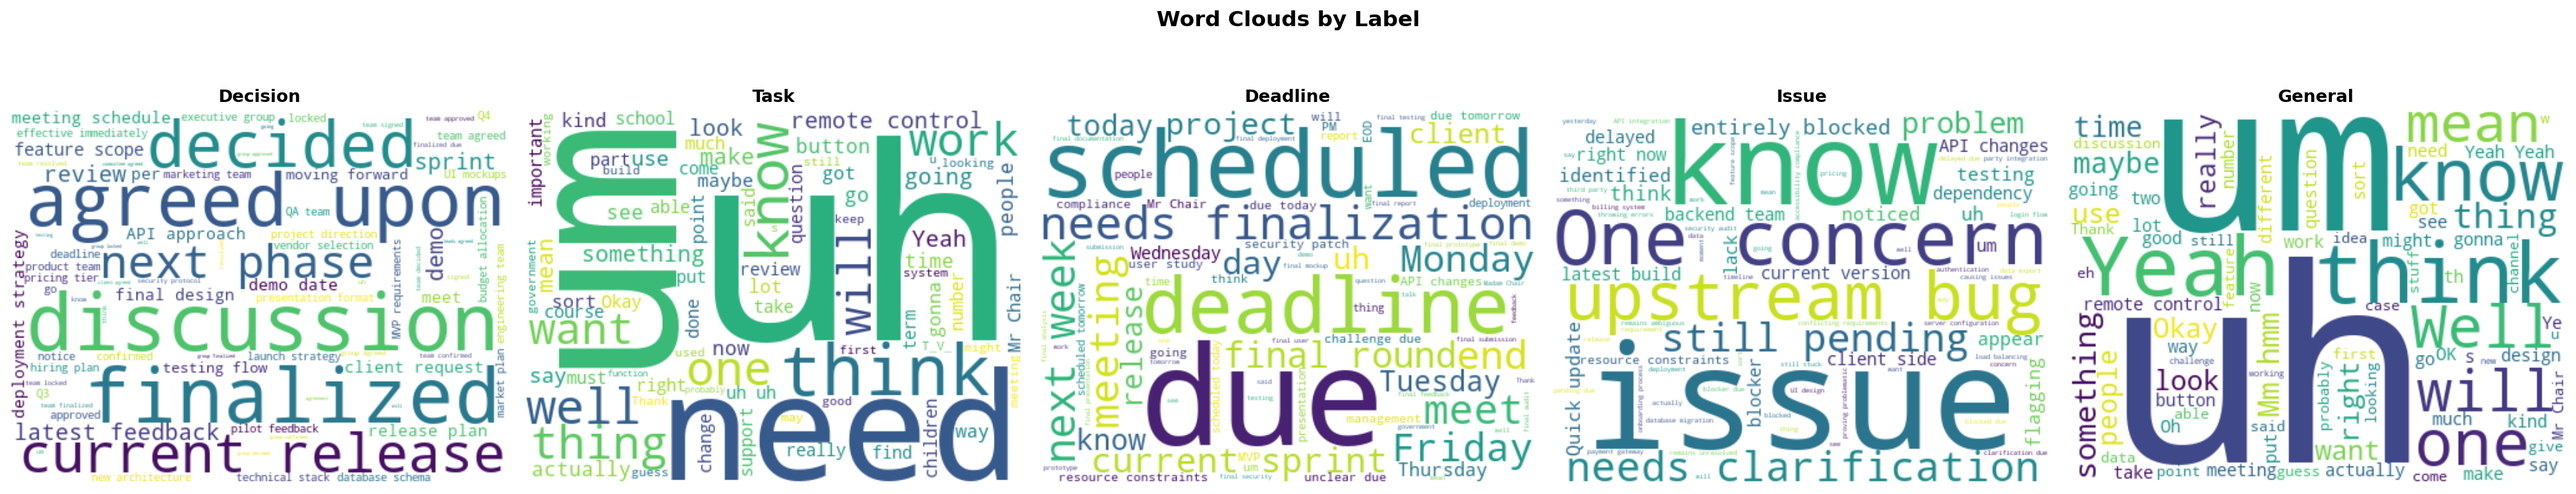
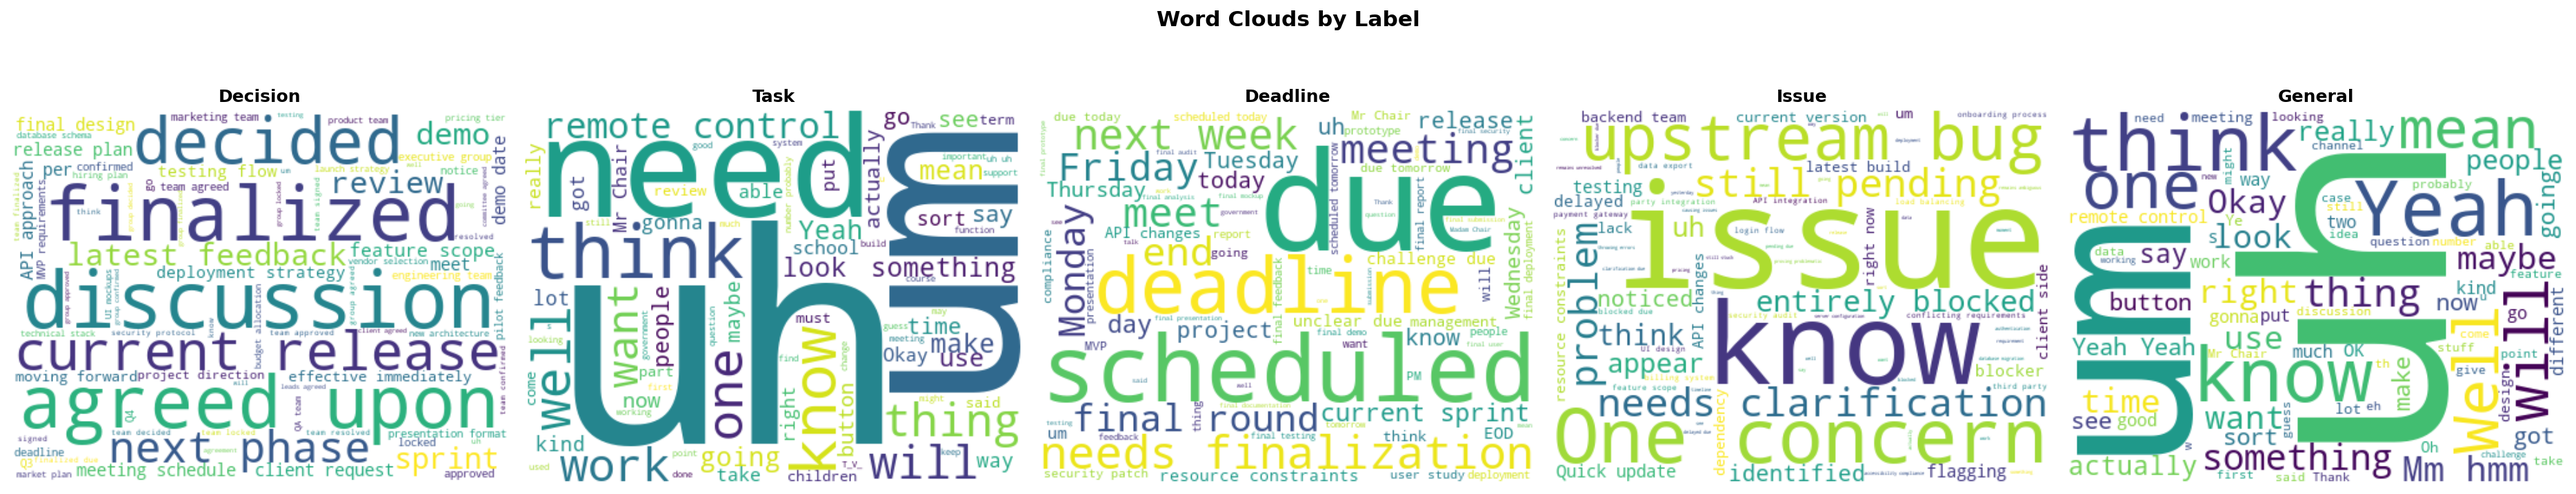
Updated README.md and added images for documentation.

diff --git a/README.md b/README.md
@@ -1,5 +1,9 @@
 # MeetingMind — System Overview
 
+<p align="center">
+  <img src="image.png" alt="MeetingMind Dashboard" width="100%">
+</p>
+
 > **AI-powered meeting transcript analyser** that combines a custom-trained ML classification pipeline with LLM-based intelligence to extract actionable insights from meeting transcripts.
 
 ---
@@ -24,7 +28,7 @@
 
 ## 1. Application Summary
 
-**MeetingMind** is a full-stack AI meeting analysis application. Users upload meeting transcripts (PDF, DOCX, TXT, or raw text), and the system:
+**MeetingMind** is a AI meeting analysis application. Users upload meeting transcripts (PDF, DOCX, TXT, or raw text), and the system:
 
 1. **Classifies** each sentence using a trained SVM model into five categories: *Decision*, *Task*, *Deadline*, *Issue*, or *General Discussion*.
 2. **Refines** the ML output using an LLM (Gemini or Groq) to produce clean, professional insights — including participant detection, responsibility mapping, meeting title generation, and an intelligence score.
@@ -36,7 +40,7 @@
 
 ```
 ┌─────────────────────────────────────────────────────────────────┐
-│                     FRONTEND (Browser)                          │
+│                     FRONTEND (Streamlit, port 8501)             |             
 │  meetingmind.html — Single-page app served via Streamlit        │
 │  ┌───────────┬────────────┬─────────────┬──────────────────┐    │
 │  │   Home    │  History   │ AI Summary  │    Settings      │    │
@@ -50,25 +54,17 @@
 ┌─────────────────────────────────────────────────────────────────┐
 │                   BACKEND (FastAPI, port 8502)                  │
 │                                                                 │
-<<<<<<< HEAD
+|<<<<<<< HEAD                                                     |
 │  POST /api/analyse       ← Full ML + AI pipeline                │
-│  POST /api/extract_text  ← PDF/DOCX/TXT → plain text            │
-=======
-│  POST /api/analyse       ← Full ML + AI pipeline               │
-│  POST /api/extract_text  ← PDF/DOCX/TXT → plain text           │
->>>>>>> 14de0eca5bc20ab674a6fcdda6381fc889915e1c
+│  POST /api/extract_text  ← PDF/DOCX/TXT → plain text            │               
 │  POST /api/export_notion ← Export insights to Notion            │
 │  GET  /api/notion_status ← Check Notion connection              │
 │  GET  /api/health        ← Health check                         │
 │                                                                 │
 │  ┌──────────────────┐    ┌──────────────────────────────────┐   │
-<<<<<<< HEAD
-│  │  ML Pipeline     │───▶│  AI Framing Layer               │    │
+|<<<<<<< HEAD         |    |                                  |   |
+│  │  ML Pipeline     │───▶│  AI Framing Layer               │   │
 │  │  (SVM + TF-IDF)  │    │  (Gemini → Groq → Fallback)      │   │
-=======
-│  │  ML Pipeline     │───▶│  AI Framing Layer                │   │
-│  │  (SVM + TF-IDF)  │    │  (Gemini → Groq → Fallback)     │   │
->>>>>>> 14de0eca5bc20ab674a6fcdda6381fc889915e1c
 │  └──────────────────┘    └──────────────────────────────────┘   │
 └─────────────────────────────────────────────────────────────────┘
                               │
@@ -76,7 +72,7 @@
 ┌─────────────────────────────────────────────────────────────────┐
 │                   EXTERNAL SERVICES                             │
 │  • Google Gemini API (gemini-2.0-flash) — Primary LLM           │
-│  • Groq API (llama-3.3-70b-versatile) — Fallback LLM           │
+│  • Groq API (llama-3.3-70b-versatile) — Fallback LLM            │
 │  • Notion API — Meeting export                                  │
 │  • Google Translate Widget — UI translation                     │
 └─────────────────────────────────────────────────────────────────┘
@@ -95,7 +91,7 @@
 | **NLP**       | NLTK (tokenization, lemmatization, stopwords)                 |
 | **AI/LLM**    | Google Gemini (`google-genai`), Groq (`groq`)                 |
 | **File I/O**  | pdfplumber (PDF), python-docx (DOCX)                          |
-| **Export**     | Notion API via httpx                                          |
+| **Export**     | Notion API via httpx                                         |
 | **Fonts**     | Google Fonts: Syne (headings), DM Sans (body)                 |
 | **Theming**   | CSS custom properties with light/dark mode support            |
 
@@ -103,61 +99,55 @@
 
 ## 4. Project Structure
 
+```text
+MeetingMind/
+├── .gitignore                   # Specifies intentionally untracked files to ignore
+├── README.md                    # Project overview and setup instructions
+├── app.py                       # Main Streamlit frontend application
+├── config.py                    # Global configuration and environment settings
+├── meetingmind.html             # Static HTML template or UI export
+├── pyrightconfig.json           # Type-checking configuration for Pyright
+├── requirements.txt             # Python package dependencies
+├── github_raw_data/             # External research data (AMI, Google, MeetingBank) for creating labelled_data.csv
+├── backend/                     # Backend services and machine learning pipeline
+│   ├── __init__.py
+│   ├── api/                     # FastAPI server and external integrations
+│   │   ├── analysis_server.py   # API server handling backend requests
+│   │   └── notion_export.py     # Handles exporting insights to Notion
+│   └── ml_model/                # Custom ML classification pipeline
+│       ├── __init__.py
+│       ├── dataset/             # Dataset management
+│       │   └── labelled_data.csv # The labelled dataset used for training
+│       ├── inference/           # Scripts for making predictions
+│       │   ├── __init__.py
+│       │   └── predict_text.py  # Runs new text through the trained model
+│       ├── models/              # Model definitions and vectorization
+│       │   ├── __init__.py
+│       │   ├── baseline_classifier.py # Linear SVM classifier definition
+│       │   ├── model_utils.py   # Helper functions for the model
+│       │   └── tfidf_vectorizer.py # Converts text into numerical TF-IDF features
+│       ├── preprocessing/       # Text preprocessing logic
+│       │   ├── __init__.py
+│       │   └── text_cleaner.py  # Cleans and sanitizes input text
+│       └── training/            # Scripts to train and evaluate the model
+│           ├── __init__.py
+│           ├── evaluate_baseline.py # Evaluates the model and generates metrics
+│           ├── save_model.py    # Utility to save and load model artifacts
+│           ├── train_baseline.py# The main training script
+│           └── results/         # Saved evaluation plots and visualizations
+│               ├── confusion_matrix.png
+│               ├── label_distribution.png
+│               ├── length_distribution.png
+│               ├── per_class_metrics.png
+│               ├── source_distribution.png
+│               ├── word_clouds.png
+│               └── wordcount_by_label.png
+└── src/                         # Additional core Python modules
+    ├── __init__.py
+    ├── gemini_layer.py          # AI framing layer integrating Gemini/Groq
+    └── insight_extractor.py     # Logic for extracting structured meeting insights
 ```
-MeetingMind-AI-Redesigned/
-│
-├── app.py                          # Streamlit entry point — serves the HTML
-├── config.py                       # Central config (labels, paths, model params)
-├── meetingmind.html                # Complete frontend: HTML + CSS + JS (~4050 lines)
-├── requirements.txt                # Python dependencies (root)
-├── .env                            # API keys (Gemini, Groq, Notion) — gitignored
-├── .gitignore                      # Version control exclusions
-│
-├── src/                            # Source modules
-│   ├── insight_extractor.py        #   ML inference wrapper — sentence classification
-│   └── gemini_layer.py             #   AI framing layer — Gemini/Groq refinement
-│
-├── backend/
-│   ├── api/
-│   │   ├── analysis_server.py      #   FastAPI server — all REST endpoints
-│   │   └── notion_export.py        #   Notion page builder & API client
-│   │
-│   ├── ml_model/                   #   Complete ML pipeline
-│   │   ├── dataset/
-│   │   │   ├── labelled_data.csv   #     Training dataset (~47 MB)
-│   │   │   ├── data_generator.py   #     Synthetic data generation
-│   │   │   ├── generate_dataset.py #     Dataset creation script
-│   │   │   └── balance_dataset.py  #     Class balancing utilities
-│   │   │
-│   │   ├── preprocessing/
-│   │   │   └── text_cleaner.py     #     Text cleaning (lowercase, lemma, stopwords)
-│   │   │
-│   │   ├── models/
-│   │   │   ├── tfidf_vectorizer.py #     TF-IDF vectorizer (unigrams + bigrams)
-│   │   │   ├── baseline_classifier.py #  Linear SVM classifier
-│   │   │   ├── model_utils.py      #     Save/load artifacts (joblib)
-│   │   │   └── saved/              #     Serialized model files (.joblib)
-│   │   │
-│   │   ├── training/
-│   │   │   ├── train_baseline.py   #     Training script with EDA & visualization
-│   │   │   ├── evaluate_baseline.py#     Evaluation metrics (accuracy, F1, confusion)
-│   │   │   ├── save_model.py       #     Model persistence script
-│   │   │   └── results/            #     Training output & plots
-│   │   │
-│   │   └── inference/
-│   │       └── predict_text.py     #     SentenceClassifier class (batch & single)
-│   │
-│   └── dl_model/                   #   Deep learning model (Whisper fine-tune — reserved)
-│       ├── audio_data/
-│       ├── checkpoints/
-│       ├── inference/
-│       ├── training/
-│       └── whisper_finetune/
-│
-├── transcripts/                    # Sample meeting transcripts (PDF, DOCX)
-├── github_raw_data/                # Raw research datasets (AMI, Google, MeetingBank)
-└── history.json                    # Sample history data for development
-```
+
 
 ---
 
@@ -185,7 +175,7 @@ The analysis pipeline follows a three-stage architecture:
 
 ### Stage 3 — AI Framing (`gemini_layer.py`)
 - Takes the raw ML output and a detailed JSON-structured prompt
-- Sends to **Groq** (primary) → **Gemini** (fallback) → **basic formatting** (last resort)
+- Sends to **Gemini** (primary) → **Groq** (fallback) → **basic formatting** (last resort)
 - The LLM refines and returns:
   - Clean, professional bullet points per category
   - **Participant names** extracted from transcript context
@@ -200,6 +190,29 @@ The analysis pipeline follows a three-stage architecture:
 
 The frontend is a single monolithic HTML file (`meetingmind.html`, ~4050 lines) containing all CSS, HTML structure, and JavaScript logic inline.
 
+<table width="100%">
+  <tr>
+    <td width="50%" align="center">
+      <img src="assests/home_view.png" alt="Home View - Analysis Results" width="100%">
+      <br><em>Home View — Analysis Results & Confidence Graph</em>
+    </td>
+    <td width="50%" align="center">
+      <img src="assests/history_section.png" alt="History View" width="100%">
+      <br><em>History View — Browse & Filter Past Meetings</em>
+    </td>
+  </tr>
+  <tr>
+    <td width="50%" align="center">
+      <img src="assests/ai_summary_view.png" alt="AI Executive Summary" width="100%">
+      <br><em>AI Summary — Auto-generated Executive Overview</em>
+    </td>
+    <td width="50%" align="center">
+      <img src="assests/settings_view.png" alt="Settings View" width="100%">
+      <br><em>Settings — Preferences, Theme & Notion Export</em>
+    </td>
+  </tr>
+</table>
+
 ### Navigation (Left Sidebar)
 | Icon | Section | Description |
 |------|---------|-------------|
@@ -211,7 +224,7 @@ The frontend is a single monolithic HTML file (`meetingmind.html`, ~4050 lines) 
 ### Home View
 - **File upload zone**: Drag & drop or click to upload (PDF, DOCX, TXT; max 10 MB)
 - **Text input tab**: Paste raw transcript text directly
-- **Analysis pipeline indicators**: Visual step pills (Classification → Entity Extraction → Report Generated)
+- **Analysis pipeline indicators**: Visual step pills (Input Loaded → Classification → Entity Extraction → Report Generated)
 - **Results display**: After analysis, shows:
   - Meeting title
   - Participant list
@@ -221,7 +234,7 @@ The frontend is a single monolithic HTML file (`meetingmind.html`, ~4050 lines) 
   - Confidence level (line graph visualization)
   - Quality tags (e.g., "Structured", "Action-Heavy", "High Risk")
 - **Export buttons**: New Analysis, Export (JSON/MD), Notion export
-- **Language note**: Indicates output will be generated in selected language
+- **Language note**: Indicates output will be generated in the selected language
 
 ### History View
 - Split-pane layout: meeting list (left) + detail panel (right)
@@ -235,7 +248,7 @@ The frontend is a single monolithic HTML file (`meetingmind.html`, ~4050 lines) 
 - Split-pane layout matching History
 - Search bar for filtering meetings
 - "Generate Summary" button on each meeting card
-- Right panel shows AI-generated summary with **typing animation** (Claude-style streaming effect)
+- Right panel shows AI-generated summary with **typing animation** 
 - Summary is structured with colored section headers:
   - 📄 Overview (participants, score)
   - ✅ Key Decisions
@@ -248,7 +261,7 @@ The frontend is a single monolithic HTML file (`meetingmind.html`, ~4050 lines) 
 - **Appearance**: Light / Dark / System mode toggle
 - **Export format**: JSON or Markdown (default for downloads)
 - **Language**: Dropdown with 10 supported languages (English, Hindi, Spanish, French, German, Japanese, Chinese, Korean, Arabic, Portuguese)
-- **Auto-export to Notion**: Toggle to automatically push analyses to Notion
+- **Auto-export to Notion**: Toggle to automatically push analysis to Notion
 
 ### Design System
 - **Color palette**: Custom dark theme with CSS custom properties (`--bg`, `--accent`, `--success`, etc.)
@@ -321,8 +334,9 @@ Raw Text → Sentence Tokenization (NLTK) → Text Cleaning → TF-IDF Vectoriza
 | `General` | General discussion, context, or filler |
 
 ### Training Data
-- Located at `backend/ml_model/dataset/labelled_data.csv` (~47 MB)
-- Includes synthetic data generation (`data_generator.py`) and class balancing (`balance_dataset.py`)
+- Utilizes raw meeting data from github_raw_data/ (AMI, Google, and MeetingBank) for benchmarking and training validation.   
+- Labelled dataset located at `backend/ml_model/dataset/labelled_data.csv` 
+- Includes synthetic data generation and class balancing
 - Training script: `training/train_baseline.py` (includes EDA, visualization, cross-validation)
 - Evaluation: `training/evaluate_baseline.py` (accuracy, precision, recall, F1, confusion matrix)
 
@@ -332,6 +346,32 @@ Stored in `backend/ml_model/models/saved/`:
 - `svm_classifier.joblib`
 - `label_encoder.joblib`
 
+### Pipeline Execution (CLI)
+<table width="100%">
+  <tr>
+    <td width="33%" align="center">
+      <img src="assests/cli1.png" alt="CLI Output 1" width="100%">
+    </td>
+    <td width="33%" align="center">
+      <img src="assests/cli2.png" alt="CLI Output 2" width="100%">
+    </td>
+    <td width="33%" align="center">
+      <img src="assests/cli3.png" alt="CLI Output 3" width="100%">
+    </td>
+  </tr>
+  <tr>
+    <td width="33%" align="center">
+      <img src="assests/cli4.png" alt="CLI Output 4" width="100%">
+    </td>
+    <td width="33%" align="center">
+      <img src="assests/cli5.png" alt="CLI Output 5" width="100%">
+    </td>
+    <td width="33%" align="center">
+      <img src="assests/cli6.png" alt="CLI Output 6" width="100%">
+    </td>
+  </tr>
+</table>
+
 ---
 
 ## 9. AI Framing Layer
@@ -340,8 +380,8 @@ Stored in `backend/ml_model/models/saved/`:
 Transforms raw ML-classified output into clean, professional, display-ready content using LLMs.
 
 ### Provider Priority
-1. **Groq** (primary) — `llama-3.3-70b-versatile`, temperature 0.3
-2. **Gemini** (fallback) — `gemini-2.0-flash`
+1. **Gemini** (primary) — `gemini-2.0-flash`
+2. **Groq** (fallback) — `llama-3.3-70b-versatile`, temperature 0.3 
 3. **Basic formatting** (last resort) — Returns raw ML output without refinement
 
 ### Capabilities
@@ -397,6 +437,9 @@ Frontend receives JSON → renders dashboard
 ## 11. External Integrations
 
 ### Notion Export
+
+<img src="assests/notion_export.png" alt="Notion Export Example" width="100%">
+
 - **Module**: `backend/api/notion_export.py`
 - Creates formatted Notion pages with headings, tables, bullet lists, callouts, and dividers
 - Supports automatic export on analysis completion (toggle in Settings)
@@ -449,11 +492,6 @@ python -m uvicorn backend.api.analysis_server:app --port 8502 --reload
 ```bash
 streamlit run app.py
 ```
-
-### Access
-- **Dashboard**: http://localhost:8501
-- **API docs**: http://localhost:8502/docs
-
 ---
 
 *Last updated: May 2026*
